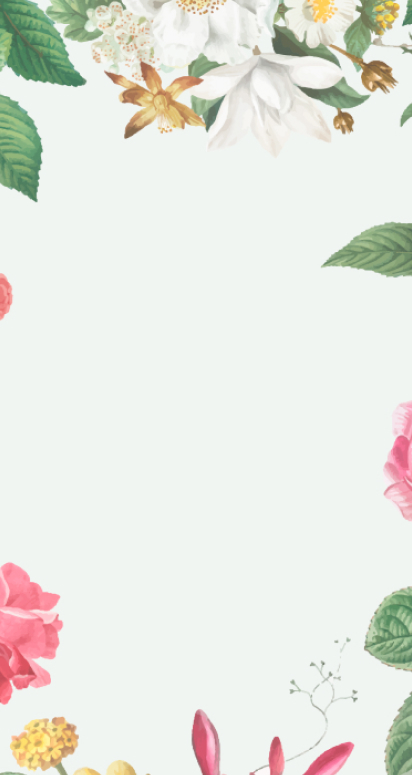
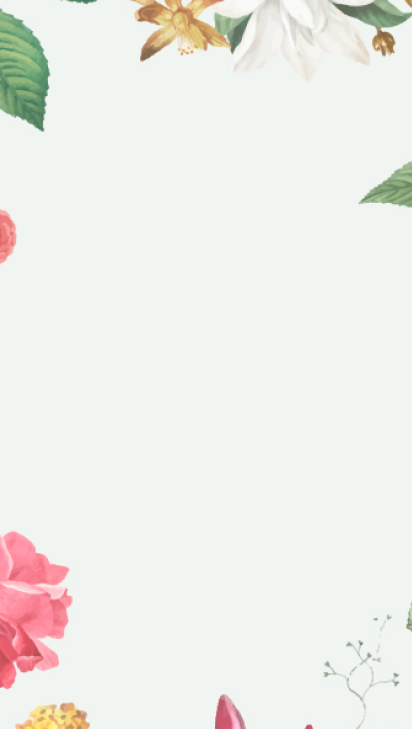
Update the ThankYou page

diff --git a/app/routes/invitation/response/thank-you.tsx b/app/routes/invitation/response/thank-you.tsx
@@ -1,4 +1,4 @@
-import { Center, Flex, Text } from "@chakra-ui/react";
+import { Box, Center, Flex, Grid, Text, VStack } from "@chakra-ui/react";
 import { useEffect, useState } from "react";
 import BaseHeading from "~/components/shared/BaseHeadings";
 import useGuestNameFormData from "~/context/invitation-context/hooks/useGuestNameFormData";
@@ -22,49 +22,41 @@ export default function ThankYou() {
   }, [guestName, guests]);
 
   return (
-    <Center flexDirection="column" p="2rem" justifyContent="space-between">
-      <Flex direction="column" gap=".25rem" justify="center" align="center">
+    <Grid gridTemplateRows="auto 1fr auto">
+      <VStack spacing=".75rem">
         <BaseHeading fontSize="38px" fontWeight="700">
           Obrigado
         </BaseHeading>
         {guestName !== "" && (
-          <BaseHeading fontSize="32px" fontWeight="400" color="text.500">
+          <BaseHeading fontSize="26px" fontWeight="400" color="text.500">
             {guestName}
           </BaseHeading>
         )}
-      </Flex>
-      <Flex direction="column" gap=".25rem" justify="center" align="center">
-        <Text textAlign="center">{certStatement}</Text>
-        <BaseHeading
-          fontSize="24px"
-          fontWeight="700"
-          textDecoration="underline"
-          textTransform="uppercase"
-        >
-          {certRole}
-        </BaseHeading>
-      </Flex>
-      <Flex
-        direction="column"
-        gap="1rem"
-        justify="center"
-        align="center"
-        paddingInline="1rem"
-      >
-        <Text textAlign="center">
-          Será um prazer estar na companhia de{" "}
-          <Text as="span" fontWeight={700}>
-            {guests > 1 ? "vocês" : "você"}
+      </VStack>
+      <Center>
+        <VStack spacing=".75rem" w="65vw">
+          <Text fontWeight={700} textAlign="center">
+            Querido Convidado,
           </Text>
-          {", "}
-          no dia mais feliz de nossas nova vidas.
-        </Text>
-      </Flex>
-      <Flex direction="column" gap="1rem" justify="center" align="center">
+          <Text fontSize="16px" lineHeight="1.2" textAlign="justify">
+            caso queria nos agraciar com um presente, gostariamos que este fosse
+            convertido em diheiro.
+          </Text>
+          <Text fontSize="16px" lineHeight="1.2" textAlign="justify">
+            Pois o nosso cantinho já está mobiliado e arrumadinho mas saiba que
+            nosso maior presente é sua presença
+          </Text>
+          <Text fontSize="14px" lineHeight="1.2" fontStyle="italic">
+            Adicionamos um link para a página PIX na parte inferior do site.
+          </Text>
+        </VStack>
+      </Center>
+
+      <VStack>
         <Text fontSize="14px" textTransform="uppercase" letterSpacing="1px">
           Pato Branco, {settings.eventFullDateHumanReadable}
         </Text>
-      </Flex>
-    </Center>
+      </VStack>
+    </Grid>
   );
 }

diff --git a/app/routes/index.tsx b/app/routes/index.tsx
@@ -73,19 +73,19 @@ export default function Index() {
               <NavigationMenu />
               <Header />
             </NavigationProvider>
-            <HeroSection />
+            {/* <HeroSection />
             <HistorySection />
 
             <Gallery />
 
             <PlaceSection />
 
-            <InvitationSection />
-
             <RevelationSexBabySection
               actionData={actionData}
               formState={state}
-            />
+            /> */}
+
+            <InvitationSection />
           </FullPageVerticallyScroll>
           <AlertNoReadStory />
           <WhatsAppWidget />

diff --git a/app/routes/invitation/response.tsx b/app/routes/invitation/response.tsx
@@ -27,9 +27,10 @@ export default function Response() {
       id="invitation-success"
       maxH="100vh"
       backgroundImage={`url(/images/${bgImage})`}
+      backgroundSize="cover"
     >
       <SafeArea>
-        <Grid h="100%" padding="2rem" gridTemplateRows=".5fr 1fr .25fr">
+        <Grid h="100%" gridTemplateRows="auto 1fr .25fr" gap="1rem">
           <LogoWithBackground />
           <Outlet />
           <Center>

diff --git a/app/components/shared/LogoWithBackground.tsx b/app/components/shared/LogoWithBackground.tsx
@@ -2,8 +2,8 @@ import { Center, Image, Text } from "@chakra-ui/react";
 
 export default function LogoWithBackground() {
   return (
-    <Center flexDirection="column" gap="1rem">
-      <Image src={`/images/thank-you.png`} w="90px" />
+    <Center flexDirection="column" gap=".5rem">
+      <Image src={`/images/thank-you.png`} w="80px" />
       <Text
         fontSize="14px"
         textTransform="uppercase"
